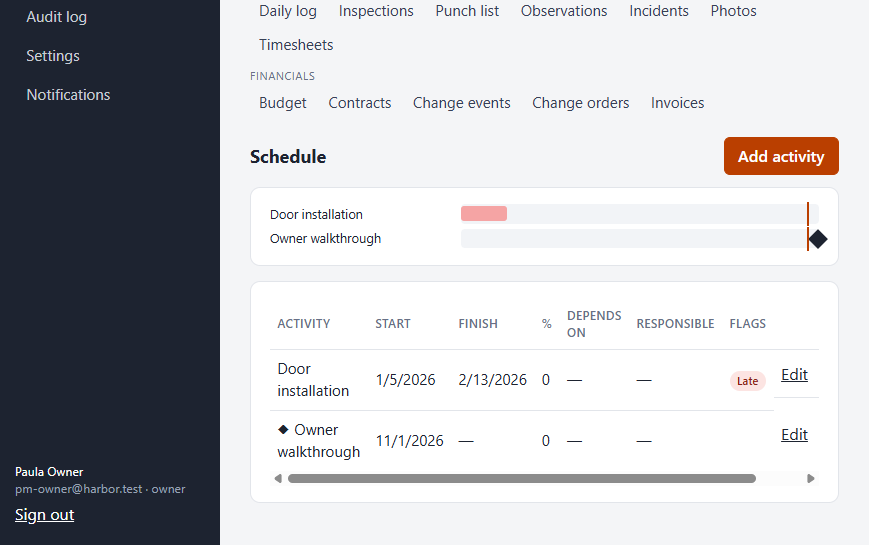
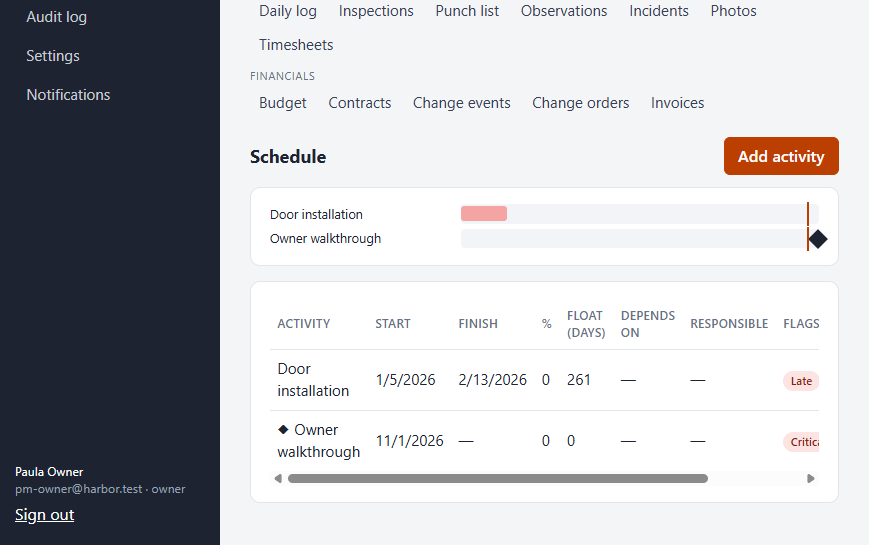
Critical-path scheduling; CUA GUI run 32/32 on current build
Forward/backward pass over finish-to-start links gives early/late dates,
total float and a critical flag, shown in the schedule table and bar chart.

diff --git a/apps/web/src/pages/tools/schedule.tsx b/apps/web/src/pages/tools/schedule.tsx
@@ -8,7 +8,7 @@ import type { ProjectInfo } from "../Project";
 interface Item {
   id: string; name: string; start_date: string; end_date: string; is_milestone: boolean; percent_complete: number;
   predecessor_id: string | null; predecessor_name: string | null; assignee_id: string | null; assignee_name: string | null;
-  late: boolean; dependency_conflict: boolean;
+  late: boolean; dependency_conflict: boolean; early_start: string; early_finish: string; total_float: number; critical: boolean;
 }
 
 const day = (d: string) => Date.UTC(+d.slice(0, 4), +d.slice(5, 7) - 1, +d.slice(8, 10)) / 86_400_000;
@@ -52,7 +52,7 @@ export function ScheduleTool({ project }: { project: ProjectInfo }) {
               {i.is_milestone ? (
                 <span className={`gantt-milestone ${i.late ? "late" : ""}`} style={{ left: pct(day(i.start_date)) }} title={`${i.name}: ${fmtDate(i.start_date)}`} />
               ) : (
-                <span className={`gantt-bar ${i.late ? "late" : ""} ${i.dependency_conflict ? "conflict" : ""}`}
+                <span className={`gantt-bar ${i.critical ? "critical" : ""} ${i.late ? "late" : ""} ${i.dependency_conflict ? "conflict" : ""}`}
                   style={{ left: pct(day(i.start_date)), width: `calc(${((day(i.end_date) + 1 - day(i.start_date)) / span) * 100}% - 2px)` }}
                   title={`${i.name}: ${fmtDate(i.start_date)} – ${fmtDate(i.end_date)}, ${i.percent_complete}%`}>
                   <span className="gantt-done" style={{ width: `${i.percent_complete}%` }} />
@@ -86,10 +86,10 @@ export function ScheduleTool({ project }: { project: ProjectInfo }) {
             <div className="table-wrap">
               <table className="table">
                 <caption className="sr-only">Schedule activities</caption>
-                <thead><tr><th>Activity</th><th>Start</th><th>Finish</th><th>%</th><th>Depends on</th><th>Responsible</th><th>Flags</th>{writable && <th />}</tr></thead>
+                <thead><tr><th>Activity</th><th>Start</th><th>Finish</th><th>%</th><th>Float (days)</th><th>Depends on</th><th>Responsible</th><th>Flags</th>{writable && <th />}</tr></thead>
                 <tbody>
                   {items.map((i) => editing === i.id ? (
-                    <tr key={i.id}><td colSpan={writable ? 8 : 7}>
+                    <tr key={i.id}><td colSpan={writable ? 9 : 8}>
                       <Form ariaLabel={`Edit ${i.name}`} submitLabel="Save" className="flat" onCancel={() => setEditing(null)} fields={fields(i.id)}
                         initial={{ name: i.name, startDate: i.start_date, endDate: i.is_milestone ? "" : i.end_date, percentComplete: String(i.percent_complete), predecessorId: i.predecessor_id ?? "", assigneeId: i.assignee_id ?? "", isMilestone: i.is_milestone }}
                         onSubmit={async (v) => { await api("PATCH", `/schedule/${i.id}`, body(v)); setEditing(null); list.reload(); }} />
@@ -100,9 +100,11 @@ export function ScheduleTool({ project }: { project: ProjectInfo }) {
                       <td>{fmtDate(i.start_date)}</td>
                       <td>{i.is_milestone ? "—" : fmtDate(i.end_date)}</td>
                       <td>{i.percent_complete}</td>
+                      <td>{i.total_float}</td>
                       <td>{i.predecessor_name ?? "—"}</td>
                       <td>{i.assignee_name ?? "—"}</td>
                       <td>
+                        {i.critical && <span className="badge badge-high" title="Zero float: any delay moves the project finish">Critical</span>}{" "}
                         {i.late && <span className="badge badge-rejected">Late</span>}{" "}
                         {i.dependency_conflict && <span className="badge badge-pending" title="Starts before its predecessor finishes">Dependency conflict</span>}
                       </td>

diff --git a/apps/api/src/lib/cpm.ts b/apps/api/src/lib/cpm.ts
@@ -1,0 +1,47 @@
+/**
+ * Critical-path method over finish-to-start links (one predecessor per activity, as modelled).
+ * Works in whole calendar days. Early dates respect the planned start and the predecessor's early finish;
+ * late dates come from the backward pass against the project finish. Total float = late start - early start.
+ */
+export interface CpmInput { id: string; start_date: string; end_date: string; predecessor_id: string | null }
+export interface CpmResult { early_start: string; early_finish: string; late_start: string; late_finish: string; total_float: number; critical: boolean }
+
+const day = (d: string) => Date.UTC(+d.slice(0, 4), +d.slice(5, 7) - 1, +d.slice(8, 10)) / 86_400_000;
+const iso = (n: number) => new Date(n * 86_400_000).toISOString().slice(0, 10);
+
+export function criticalPath(items: CpmInput[]): Map<string, CpmResult> {
+  const byId = new Map(items.map((i) => [i.id, i]));
+  const dur = new Map(items.map((i) => [i.id, day(i.end_date) - day(i.start_date)]));
+  const es = new Map<string, number>();
+  const ef = new Map<string, number>();
+  const visit = (id: string, depth = 0): number => {
+    if (ef.has(id)) return ef.get(id)!;
+    if (depth > items.length) throw new Error("Dependency loop");
+    const it = byId.get(id)!;
+    const pred = it.predecessor_id && byId.has(it.predecessor_id) ? visit(it.predecessor_id, depth + 1) + 1 : -Infinity;
+    const start = Math.max(day(it.start_date), pred);
+    es.set(id, start);
+    ef.set(id, start + dur.get(id)!);
+    return ef.get(id)!;
+  };
+  items.forEach((i) => visit(i.id));
+  const projectFinish = Math.max(...items.map((i) => ef.get(i.id)!));
+  const successors = new Map<string, string[]>();
+  for (const i of items) if (i.predecessor_id && byId.has(i.predecessor_id)) successors.set(i.predecessor_id, [...(successors.get(i.predecessor_id) ?? []), i.id]);
+  const lf = new Map<string, number>();
+  const back = (id: string): number => {
+    if (lf.has(id)) return lf.get(id)!;
+    const succ = successors.get(id) ?? [];
+    const finish = succ.length ? Math.min(...succ.map((s) => back(s) - dur.get(s)! - 1)) : projectFinish;
+    lf.set(id, finish);
+    return finish;
+  };
+  const out = new Map<string, CpmResult>();
+  for (const i of items) {
+    const f = back(i.id);
+    const ls = f - dur.get(i.id)!;
+    const totalFloat = ls - es.get(i.id)!;
+    out.set(i.id, { early_start: iso(es.get(i.id)!), early_finish: iso(ef.get(i.id)!), late_start: iso(ls), late_finish: iso(f), total_float: totalFloat, critical: totalFloat <= 0 });
+  }
+  return out;
+}

diff --git a/apps/api/test/schedule.test.ts b/apps/api/test/schedule.test.ts
@@ -70,3 +70,28 @@ describe("schedule and milestones", () => {
     }
   });
 });
+
+describe("critical path", () => {
+  it("computes early/late dates, float and the critical chain", async () => {
+    const { criticalPath } = await import("../src/lib/cpm.js");
+    // A (5 days) -> B (3 days); C (2 days) parallel, no dependency
+    const r = criticalPath([
+      { id: "A", start_date: "2026-01-01", end_date: "2026-01-05", predecessor_id: null },
+      { id: "B", start_date: "2026-01-02", end_date: "2026-01-04", predecessor_id: "A" }, // planned too early; pushed to 01-06
+      { id: "C", start_date: "2026-01-01", end_date: "2026-01-02", predecessor_id: null },
+    ]);
+    expect(r.get("B")).toMatchObject({ early_start: "2026-01-06", early_finish: "2026-01-08", total_float: 0, critical: true });
+    expect(r.get("A")).toMatchObject({ late_finish: "2026-01-05", critical: true });
+    expect(r.get("C")).toMatchObject({ late_finish: "2026-01-08", total_float: 6, critical: false });
+  });
+
+  it("is returned by the schedule API", async () => {
+    const P = `/api/projects/${projectId}/schedule`;
+    const a = (await owner.post(P, { name: "A", startDate: "2026-01-01", endDate: "2026-01-05" })).body;
+    await owner.post(P, { name: "B", startDate: "2026-01-06", endDate: "2026-01-10", predecessorId: a.id });
+    await owner.post(P, { name: "C", startDate: "2026-01-01", endDate: "2026-01-02" });
+    const list = (await owner.get(P)).body;
+    expect(list.filter((x: { critical: boolean }) => x.critical).map((x: { name: string }) => x.name)).toEqual(["A", "B"]);
+    expect(list.find((x: { name: string }) => x.name === "C").total_float).toBe(8);
+  });
+});

diff --git a/apps/api/src/routes/schedule.ts b/apps/api/src/routes/schedule.ts
@@ -3,6 +3,7 @@ import { z } from "zod";
 import { type AppConfig, requireUser } from "../app.js";
 import type { Queryable } from "../db/db.js";
 import { audit } from "../lib/audit.js";
+import { criticalPath, type CpmInput } from "../lib/cpm.js";
 import { HttpError } from "../lib/errors.js";
 import { requireProject } from "../lib/permissions.js";
 import { assertProjectMember, loadInProject, toSet } from "../lib/records.js";
@@ -28,7 +29,7 @@ export const scheduleRoutes = (config: AppConfig): FastifyPluginAsync => async (
   app.get<P>("/projects/:projectId/schedule", async (req) => {
     const user = requireUser(req);
     await requireProject(db, user.id, req.params.projectId, "read.full");
-    return db.query(
+    const rows = await db.query<CpmInput & Record<string, unknown>>(
       `SELECT s.id, s.name, s.start_date, s.end_date, s.is_milestone, s.percent_complete, s.predecessor_id, s.assignee_id,
               u.name AS assignee_name, p.name AS predecessor_name,
               (s.percent_complete < 100 AND s.end_date < current_date) AS late,
@@ -37,6 +38,9 @@ export const scheduleRoutes = (config: AppConfig): FastifyPluginAsync => async (
         WHERE s.project_id = $1 ORDER BY s.start_date, s.end_date, s.name`,
       [req.params.projectId],
     );
+    if (!rows.length) return rows;
+    const cpm = criticalPath(rows);
+    return rows.map((r) => ({ ...r, ...cpm.get(r.id)! }));
   });
 
   async function validate(q: Queryable, projectId: string, selfId: string | null, b: { predecessorId?: string | null; assigneeId?: string | null }) {

diff --git a/e2e/schedule.spec.ts b/e2e/schedule.spec.ts
@@ -34,6 +34,9 @@ test("schedule: activities, milestone, dependency conflict, dashboard milestone"
   await owner.getByLabel("Start", { exact: true }).fill("2026-02-16");
   await owner.getByRole("button", { name: "Save" }).click();
   await expect(owner.getByText("Dependency conflict")).toHaveCount(0);
+  // Top out finishes last, so it is critical; Steel erection (March) has float.
+  await expect(owner.getByRole("row", { name: /Top out/ }).getByText("Critical")).toBeVisible();
+  await expect(owner.getByRole("row", { name: /Steel erection/ }).getByText("Critical")).toHaveCount(0);
 
   await owner.getByRole("link", { name: "Dashboard" }).click();
   await expect(owner.getByRole("link", { name: "Top out" })).toBeVisible();

diff --git a/apps/web/src/workspace.css b/apps/web/src/workspace.css
@@ -111,6 +111,8 @@ button.danger:not(.link) { border-color: #f1b2ab; color: var(--warn); }
 .gantt-label { font-size: .85rem; white-space: nowrap; overflow: hidden; text-overflow: ellipsis; }
 .gantt-track { position: relative; height: 1.3rem; background: #f2f4f7; border-radius: 4px; }
 .gantt-bar { position: absolute; top: .15rem; height: 1rem; background: #93c5fd; border-radius: 3px; overflow: hidden; min-width: 4px; }
+.gantt-bar.critical { background: #fdba74; }
+.gantt-bar.critical .gantt-done { background: #c2410c; }
 .gantt-bar.late { background: #fca5a5; }
 .gantt-bar.conflict { outline: 2px dashed #b45309; }
 .gantt-done { display: block; height: 100%; background: #1d4ed8; }

diff --git a/docs/FEATURE_PARITY.md b/docs/FEATURE_PARITY.md
@@ -13,7 +13,7 @@ Sources:
 | Core | Company/project directory, permissions | **Done** | Org roles owner/admin/member; project roles manager/contributor/viewer/subcontractor |
 | Core | Portfolio dashboard, project home | **Done** | Status counts, open/overdue tasks, my tasks, activity |
 | Core | Tasks | **Done** | Assign, due date, status, CSV import/export |
-| Core | Schedule & milestones | **Done (basic)** | Activities, milestones, finish-to-start dependencies with loop prevention, late/conflict flags, bar chart, dashboard milestones; no critical-path calculation or P6/MS Project import |
+| Core | Schedule & milestones | **Done (basic)** | Activities, milestones, finish-to-start dependencies with loop prevention, late/conflict flags, critical path with total float, bar chart, dashboard milestones; single predecessor per activity, no P6/MS Project import |
 | Docs | Drawings | **Done** | Sheets, revisions (current set = latest), sets, issue dates, inline PDF viewer, markup sets |
 | Docs | Documents | **Done** | Folders, versions, sequential approval |
 | Docs | Specifications | **Done** | MasterFormat sections with optional PDF |

diff --git a/docs/ARCHITECTURE.md b/docs/ARCHITECTURE.md
@@ -19,7 +19,7 @@ browser ──HTTPS──> Fastify API (apps/api) ──SQL──> PostgreSQL 16
 | Audit | Append-only `audit_log` written in the same transaction as each change | `lib/audit.ts` |
 | Files | Local disk or S3-compatible object storage behind a `Storage` interface; server-generated keys; metadata in `files` | `lib/storage.ts`, `lib/uploads.ts` |
 | Offline | App-shell service worker + client outbox with `clientId` replay protection | `apps/web/public/sw.js`, `apps/web/src/offline.ts` |
-| Tests | Vitest (69 API tests incl. a route-inventory security sweep; PGlite locally, PostgreSQL 16 in CI), Playwright (20 browser acceptance tests + axe), CUA Driver (real GUI), install/recovery drill, load test | `apps/api/test`, `e2e/`, `scripts/` |
+| Tests | Vitest (71 API tests incl. a route-inventory security sweep; PGlite locally, PostgreSQL 16 in CI), Playwright (20 browser acceptance tests + axe), CUA Driver (real GUI), install/recovery drill, load test | `apps/api/test`, `e2e/`, `scripts/` |
 
 ## Architecture decision records
 

diff --git a/docs/ROADMAP.md b/docs/ROADMAP.md
@@ -12,8 +12,8 @@ migrations work on fresh and existing databases, docs and limitations are update
 | M5 Collaboration & integrations | Complete | `collab.test.ts`, `e2e/collab.spec.ts` |
 | M6 Production readiness | Complete with recorded limitations | `security.test.ts` (route sweep), axe scan, `scripts/load-test.mjs`, `scripts/smoke.mjs`, CI on PGlite + PostgreSQL 16 + Docker Compose |
 
-Test totals (2026-10-22): 69 API tests, 20 Playwright tests, 32 CUA Driver GUI checks, install/recovery drill, load test.
+Test totals (2026-10-22): 71 API tests, 20 Playwright tests, 32 CUA Driver GUI checks, install/recovery drill, load test.
 
 ## Next (not started)
 Bidding; SSO; offline photo upload; PostgreSQL load test;
-multi-instance rate limiting; critical-path scheduling and MS Project/P6 import.
+multi-instance rate limiting; multiple predecessors and MS Project/P6 import.

diff --git a/docs/KNOWN_LIMITATIONS.md b/docs/KNOWN_LIMITATIONS.md
@@ -1,6 +1,6 @@
 # Known limitations (0.2.0, 2026-10-22)
 
-- **Not Procore parity.** See FEATURE_PARITY.md for what is and is not built (no bidding, BIM or critical-path scheduling).
+- **Not Procore parity.** See FEATURE_PARITY.md for what is and is not built (no bidding or BIM; scheduling supports one finish-to-start predecessor per activity and no P6/MS Project import).
 - **No SSO (SAML/OIDC).** Password + optional TOTP two-factor with 10 single-use recovery codes; owners/admins can reset a member's second factor.
 - **Login rate limiting is in-memory**, per process — run one app instance per database.
 - **S3 storage** is supported (AWS S3, MinIO, R2, Backblaze) and tested against an S3-compatible test server, not yet against a live AWS account. With S3, the backup CLI copies the database only; use bucket versioning/replication for files.

diff --git a/docs/CHANGELOG.md b/docs/CHANGELOG.md
@@ -1,7 +1,7 @@
 # Changelog
 
 ## 0.2.0 — 2026-10-22 (unreleased)
-- Project management: meetings with minutes and action items; schedule with activities, milestones, dependencies, bar chart and dashboard milestones.
+- Project management: meetings with minutes and action items; schedule with critical path and float, with activities, milestones, dependencies, bar chart and dashboard milestones.
 - Documents: drawings with revisions and markup sets, documents with versions and approvals, specifications, RFIs, submittals.
 - Field: timesheets with manager approval; daily logs with manpower, inspections from templates, punch list, observations, incidents, photo library, offline capture.
 - Financials: cost codes, budget (lock, transfers, EAC), contracts, change events and orders, AIA-style pay applications, CSV exports.

diff --git a/README.md b/README.md
@@ -27,7 +27,7 @@ Shared server: `docker compose up -d --build` (PostgreSQL 16). See [DEPLOYMENT.m
 
 ## Tests
 ```sh
-npm test               # 69 API tests incl. golden financial math and an authorization sweep over every route
+npm test               # 71 API tests incl. golden financial math and an authorization sweep over every route
 npm run test:e2e       # 20 Playwright browser tests incl. offline sync and an axe accessibility scan
 node scripts/smoke.mjs # install → hard kill → restart → backup → restore drill
 node scripts/load-test.mjs http://127.0.0.1:3000
